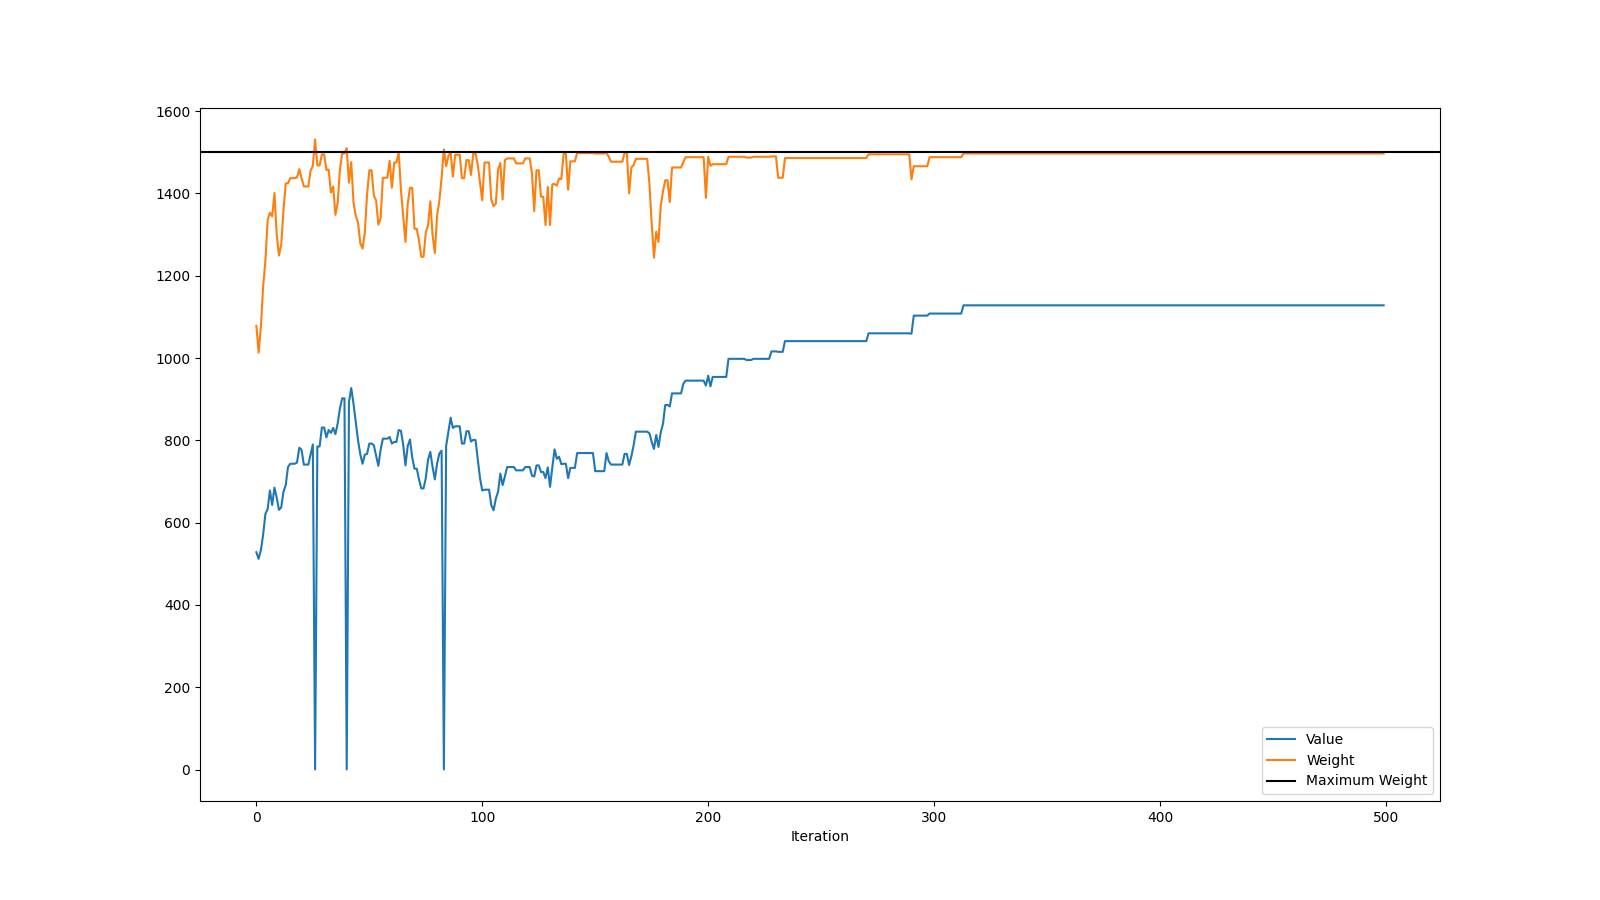
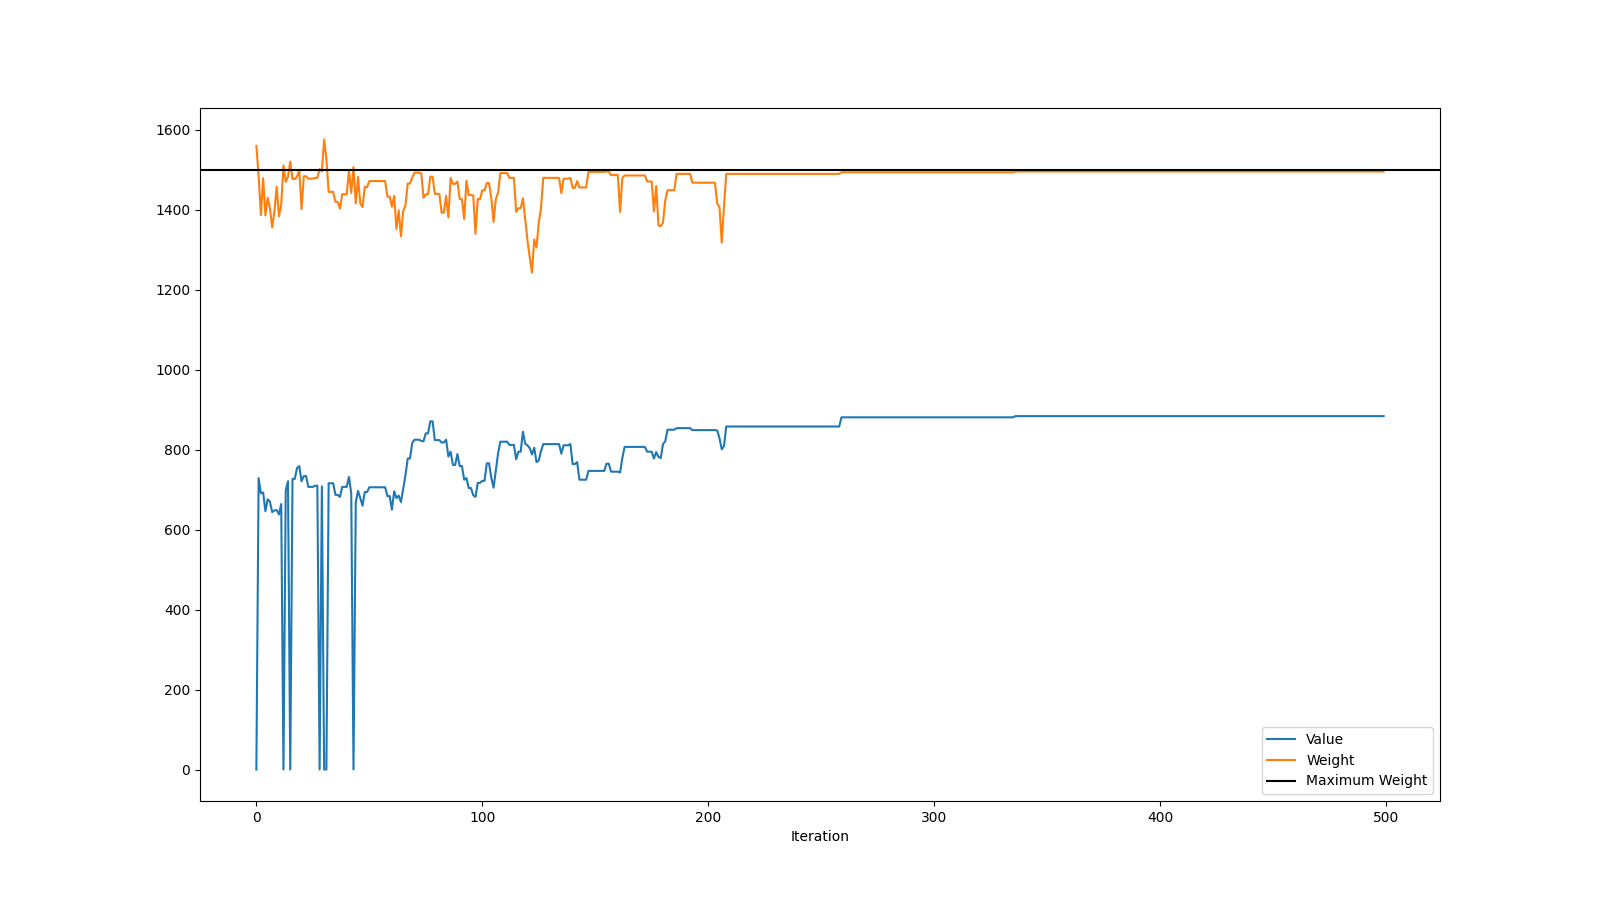
control the annealing

diff --git a/hill_climbing.py b/hill_climbing.py
@@ -3,13 +3,14 @@ import numpy as np
 from base import Knapsack, Solution
 
 
-class SimulatedAnnealing(Knapsack):
+class HillClimbing(Knapsack):
 
-    def optimize(self, n_iterations=500, initial_temp=1000, cooling_rate=0.98, min_temp=1e-4):
+    def optimize(self, n_iterations=500, anneal=True, initial_temp=1000, cooling_rate=0.98, min_temp=1e-4):
         """
 
         Args:
             n_iterations: maximum number of iterations before halting the algorithm
+            anneal: whether to use simulated annealing
             initial_temp: Starting temperature
             cooling_rate: Multiply the temperature by this rate after each iteration
             min_temp: minimum temperature value
@@ -34,7 +35,7 @@ class SimulatedAnnealing(Knapsack):
                 current = candidate
             elif delta >= 0:
                 current = candidate
-            elif np.random.rand() < np.exp(delta / temp):
+            elif anneal and np.random.rand() < np.exp(delta / temp):
                 current = candidate
             val_hist.append(current.value)
             weight_hist.append(current.weight)

diff --git a/main.py b/main.py
@@ -1,7 +1,7 @@
 import csv
 from argparse import ArgumentParser
 import matplotlib.pyplot as plt
-from simulated_annealing import SimulatedAnnealing
+from hill_climbing import HillClimbing
 
 
 def parse_data(path):
@@ -44,7 +44,7 @@ if __name__ == "__main__":
     values, weights = parse_data(args.path)
     max_weight = args.max_w
 
-    ks = SimulatedAnnealing(values, weights, max_weight)
+    ks = HillClimbing(values, weights, max_weight)
     solution, v_hist, w_hist = ks.optimize()
     plot_results(v_hist, w_hist, max_weight)
     write_solution(solution, "solution.txt")
